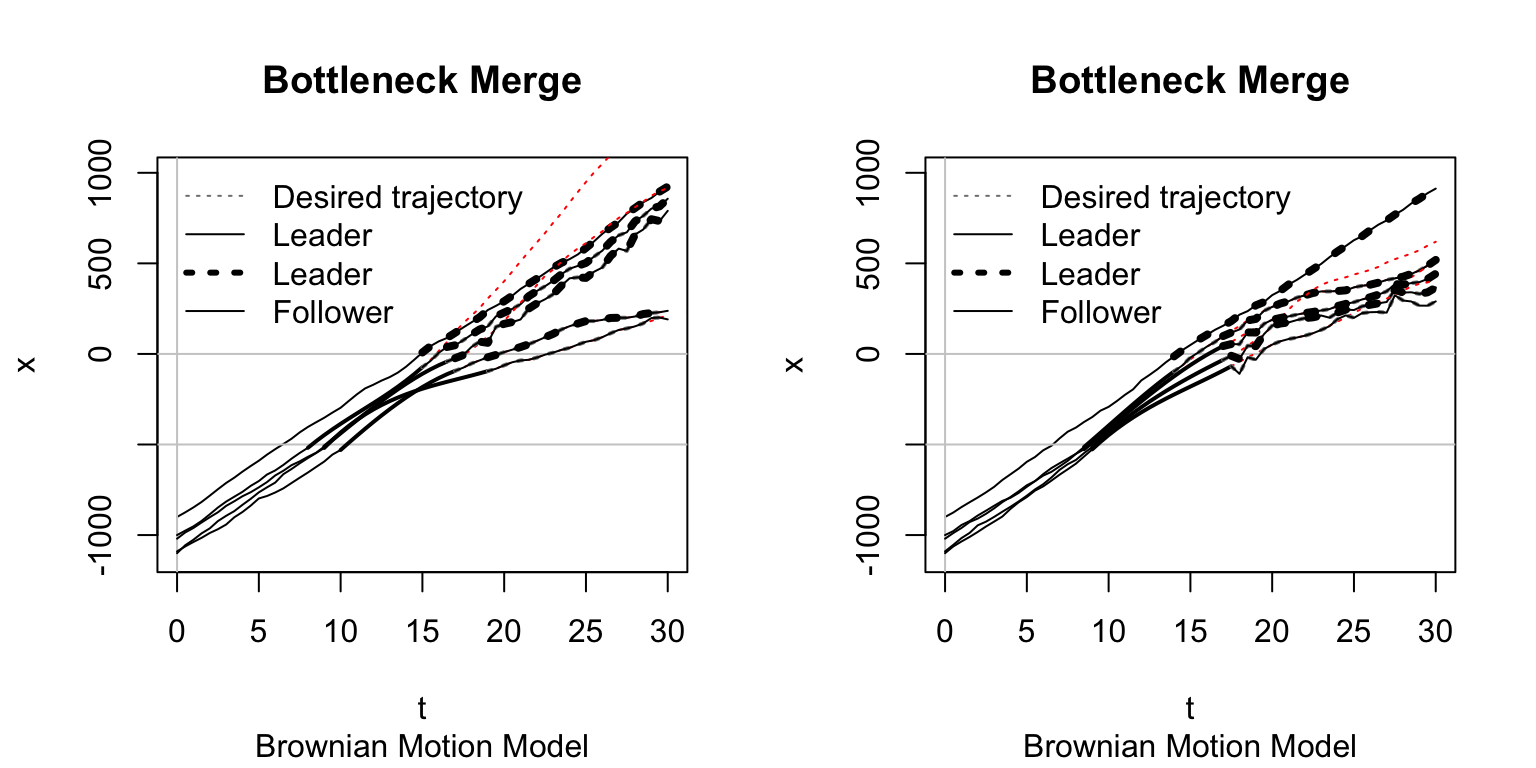
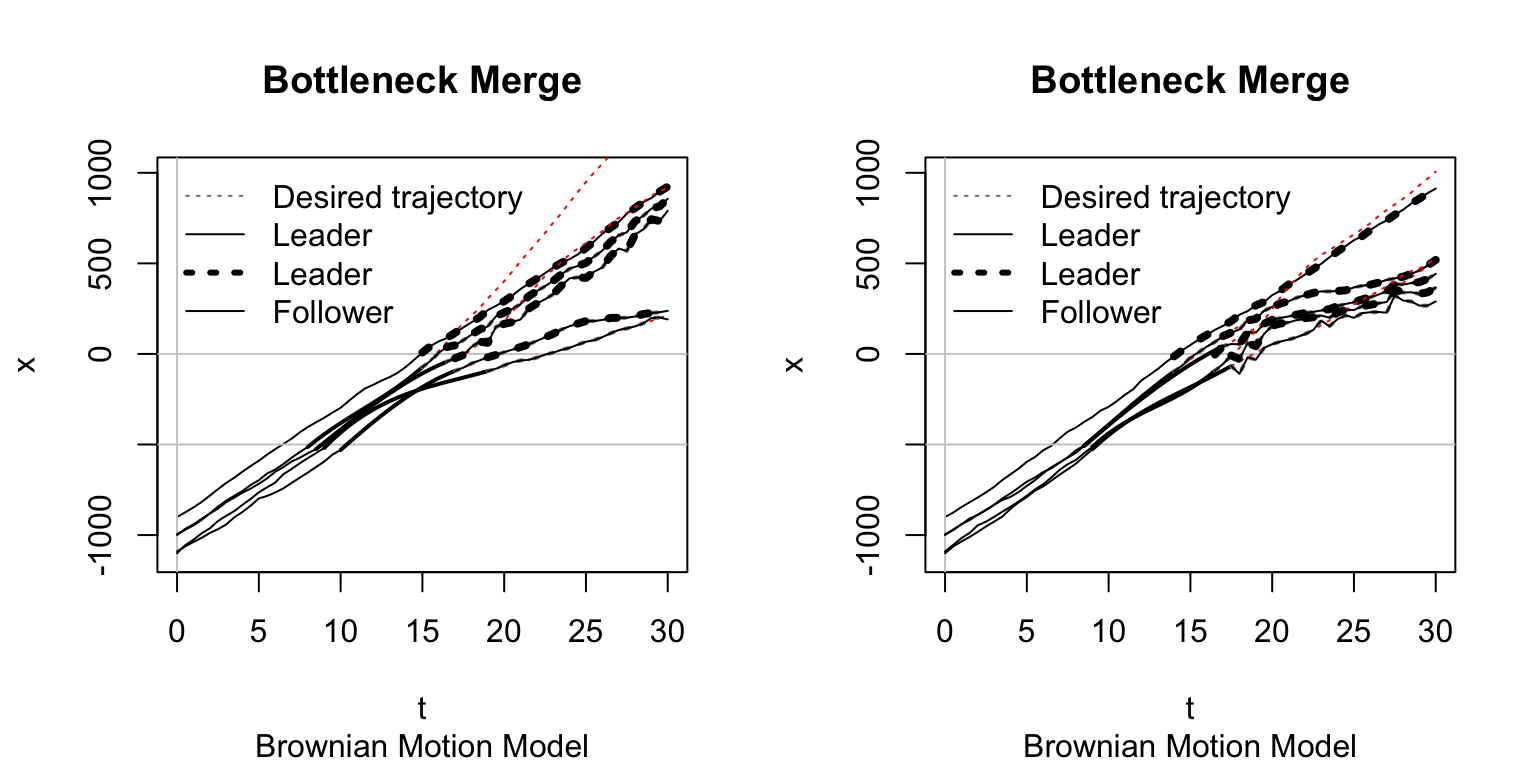
added a simulation to performance

diff --git a/performance.html b/performance.html
@@ -422,12 +422,18 @@ $(document).ready(function () {
 <p><img src="performance_files/figure-html/passplot-1.png" width="480" /></p>
 <p>To keep the discussion as simple as possible, we investigated three vehicles. Since their trajectories satisfy the safe headway conditions, all three drivers are driving safely. Now, imagine that vehicle 3 and 4 enter the simulation. Given that the two self-optimizing drivers will maintain a safe head-ways between themselves and the vehicles in front them as we described for car-following. These drivers also have the option to maintain a <span class="math inline">\(1/k\)</span> headway described above. In either case, vehicles 3 and 4 are suspected to driving side-by-side especially as they approach <span class="math inline">\(x = -500\)</span> feet. Using the <span class="math inline">\(1/k\)</span> headway estimation method, they will be located at <span class="math inline">\(x = -1105\)</span> feet at <span class="math inline">\(t = 0\)</span> and the two drivers of vehicles 3 and 4 will be in a position to decide which one take on the role of leader or follower. In other words, we can repeat the analyses as above for vehicles 1 and 2. The net result is the system will remained in a stress condition. The queue will grow and speeds will continue to decline in magnitude. Eventually, the speeds will decline to values to values that we define as congested. We experience the transition, <span class="math inline">\(X = 0 \rightarrow X = 1\)</span>.</p>
 <p><strong>Stochastic Model Predictions</strong></p>
-<p>The following <span class="math inline">\(t-x\)</span> trajectories show effect of traffic volatility on traffic breakdown. The panel of the left shows a queue formation that is quickly moving in the upstream direction, <span class="math inline">\(x &lt; 0\)</span>. The panel on the right shows the five vehicles are closely packed but no queue forms.</p>
-<p>Speeds decline for the drivers of the following vehicles downstream of <span class="math inline">\(x &gt; 0\)</span>. The drivers of the lead vehicles experince no decline in service.</p>
-<p>The starting conditions are identical for both simulations. The traffic density is <span class="math inline">\(k\)</span> = 50 vpm where the mean speed and standard deviation of speed are <span class="math inline">\(u\)</span> = 41 mph and <span class="math inline">\(\sigma\)</span> = 11 mph, respectively. The starting random seeds for the two simulations are different.</p>
+<p>The following <span class="math inline">\(t-x\)</span> trajectories show effect of traffic volatility on traffic breakdown. The panel of the left shows a queue forming that in seconds is moving upstream, <span class="math inline">\(x &gt; 0\)</span>. The panel on the right shows the five vehicles are closely packed but no queue forms.</p>
+<p>Speeds decline for the drivers of the following vehicles downstream of <span class="math inline">\(x &gt; 0\)</span> in both simulations. Despite the volatility, the drivers of the lead vehicles experience no decline in service.</p>
+<p>The starting conditions are identical for both simulations. The traffic density is <span class="math inline">\(k\)</span> = 50 vpm where the mean speed and standard deviation of speed are <span class="math inline">\(u\)</span> = 41 mph and <span class="math inline">\(\sigma\)</span> = 11 mph, respectively. The random seeds for the two simulations are different.</p>
 <p><img src="performance_files/figure-html/bottleneck_merge-1.png" width="768" /></p>
-<p>High traffic density can be blamed for the loss in performance downstream of <span class="math inline">\(x &gt; 0\)</span>. However, individual driver performance appears to be an equally or a more important factor in both simulations. In the left panel, the drivers of the first three vehicles maintain a speed of <span class="math inline">\(u\)</span> = 41 mph The driver of vehicle 4 slows down causing delay for the last vehicle. Contrast this situation to one in the right panel. All five drivers maintain a speed of around <span class="math inline">\(u\)</span> = 41 mph until they reach <span class="math inline">\(x = 300\)</span> feet. The driver of vehicle 2 slows down causing a slowdown for the rest of the drivers.</p>
+<p>High traffic density can be blamed for the loss in performance downstream of <span class="math inline">\(x &gt; 0\)</span>. However, individual driver performance appears to be an equally or a more important factor in both simulations. In the left panel, the drivers of the first three vehicles maintain a speed of <span class="math inline">\(u\)</span> = 41 mph. The driver of vehicle 4 slows down causing delay for the last vehicle.</p>
+<p>Contrast this situation to one in the right panel. All five drivers maintain a speed of around <span class="math inline">\(u\)</span> = 41 mph until they reach <span class="math inline">\(x = 300\)</span> feet. The driver of vehicle 2 slows down causing a slowdown for the rest of the drivers.</p>
 <p>Conclusion: Traffic noise explains delay. Remove it and all drivers benefit.</p>
+<p>The following simulations show the importance of traffic density in a <strong>zipper</strong> merge. Note that start locations of the vehicles are arranged so the drivers are no longer driving side-by-side as the enter the bottleneck. In the simulation on the left, the <span class="math inline">\(t-x\)</span> trajectories is similar to the one directly above it. The only difference between the two simulations is start locations. The random seeds for the two simulations are the same.</p>
+<p><img src="performance_files/figure-html/bottleneck_merge2-1.png" width="768" /></p>
+<p>The right panel simulation show no delay at the bottleneck, <span class="math inline">\(x = 0\)</span>, or upstream of it, <span class="math inline">\(x &lt; 0\)</span>. All delay occurs downstream, <span class="math inline">\(x &gt; 0\)</span>.</p>
+<p>The conclusion stated above remains intact. Remove traffic noise and all drivers benefit. <em>The driving world would be a better place.</em></p>
+<p>Do the simulations suggest that expanding the number of lanes downstream of the bottleneck to reduce land traffic density is a good solution? Good question. History shows that it is not. What can be done? Public transportation is one answer.</p>
 
 
 
